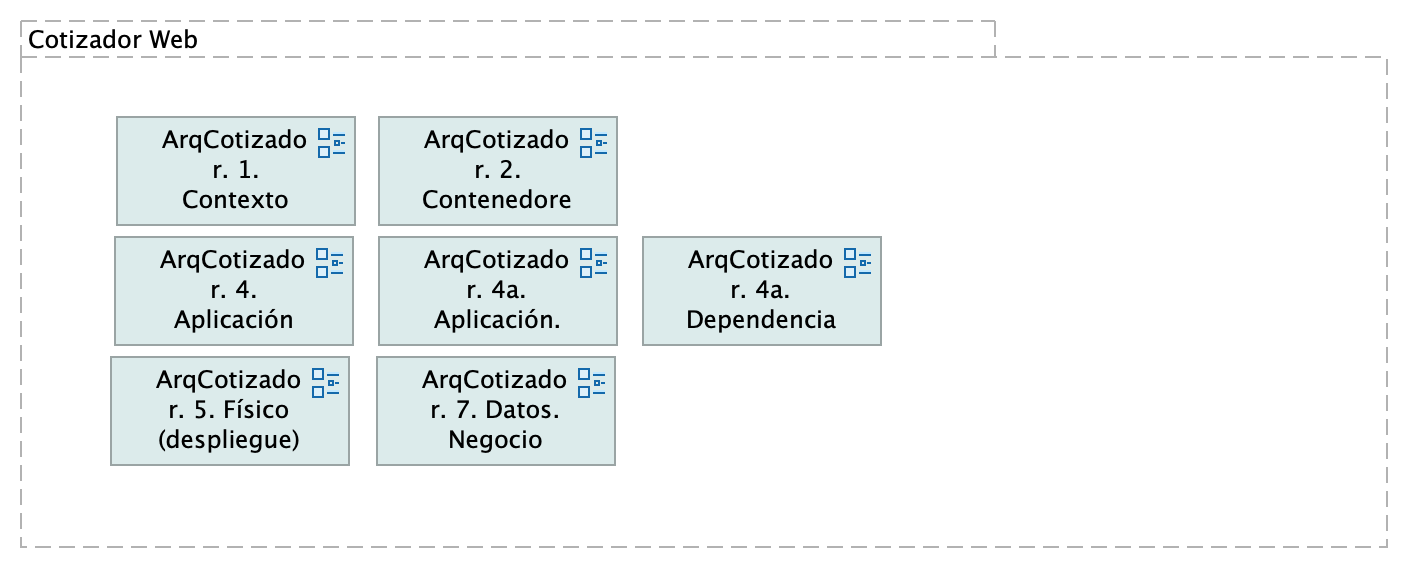
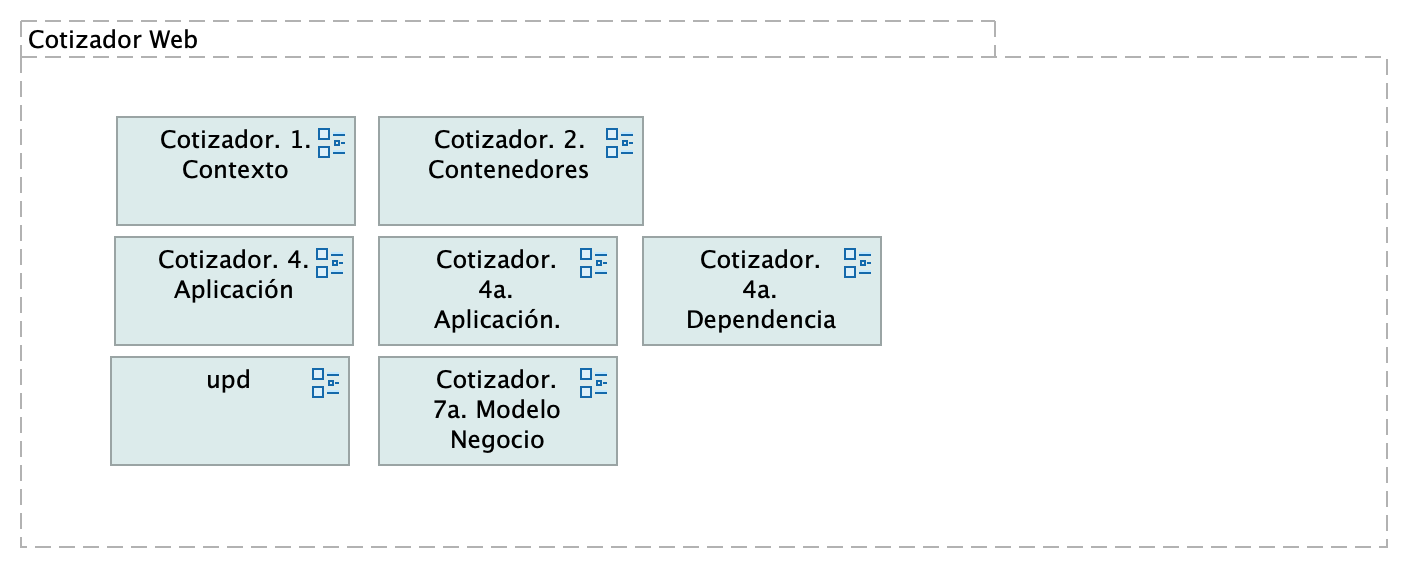
cotizdoc3

diff --git a/content/02n.a2.contenido.md b/content/02n.a2.contenido.md
@@ -5,8 +5,8 @@
 	* [Cotizador. 4. Aplicación](#cotizador.-4.-aplicación)
 	* [Cotizador. 4a. Aplicación. Servicios](#cotizador.-4a.-aplicación.-servicios)
 	* [Cotizador. 4a. Dependencias](#cotizador.-4a.-dependencias)
-	* [Cotizador. 5. Físico (despliegue)](#cotizador.-5.-físico-despliegue)
-	* [Cotizador. 7. Datos. Negocio](#cotizador.-7.-datos.-negocio)
+	* [upd](#upd)
+	* [Cotizador. 7a. Modelo Negocio](#cotizador.-7a.-modelo-negocio)
 
 
 <div style="page-break-before: always;"></div>
@@ -213,8 +213,8 @@ La estructura por módulos actual apunta a la escalabilidad y mantenimiento del 
 
 <br>
 
-## Cotizador. 5. Físico (despliegue)
-![Diagram: Cotizador. 5. Físico (despliegue)](images/Cotizador.5.Físico(despliegue).png){#fig:Cotizador.5.Físico(despliegue) width=}
+## upd
+![Diagram: upd](images/upd.png){#fig:upd width=}
 
 ### Especificaciones de Despliegue Cotizador Web
 Detalles de configuración del proyecto Mi Mutual en el espacio de trabajo local (2022).
@@ -231,6 +231,10 @@ Detalles de configuración del proyecto Mi Mutual en el espacio de trabajo local
 * Node Js. Se debe instalar Node Js para configurar el proyecto front mas adelante, nos debemos asegurar de instalar la versión v14.2.0.
 * Visual Studio Code. Se debe instalar el IDE para realizar modificaciones al proyecto front mas adelante en este caso Visual Studio code. 
 * Angular 14.
+
+<br>
+
+| Nota: los paquetes con el mismo nombre, como pkg: cliente, y pkg: clientes que aparecen arriba en el diagrama corresponden a espacio de nombres distintos. Por ejemplo, para el caso de estos dos paquetes, pkg: cliente pertenece el espacio de nombre (web) Cotizador; en cambio, pkg: clientes pertenece al espacio de nombres (web) admin Páginas.
 
 <br>
 
@@ -268,39 +272,53 @@ Detalles de configuración del proyecto Mi Mutual en el espacio de trabajo local
 
 <br>
 
-## Cotizador. 7. Datos. Negocio
-![Diagram: Cotizador. 7. Datos. Negocio](images/Cotizador.7.Datos.Negocio.png){#fig:Cotizador.7.Datos.Negocio width=}
+## Cotizador. 7a. Modelo Negocio
+![Diagram: Cotizador. 7a. Modelo Negocio](images/Cotizador.7a.ModeloNegocio.png){#fig:Cotizador.7a.ModeloNegocio width=}
 
-### Entidades de Negocio Mi Mutual
-Dominios de datos de negocio. Entidades independiente de la plataforma y de la tecnología.
+### Conceptos Principales
 
-* Configuración (caracterización de productos, plan)
-* Plan (producto pólizas seguros)
-* Canal (medios del tomador/asociado)
-* Parametros globales (catálogos)
-* Portafolio de asociado
-* Asociado
-* Facturación
-* Beneficiario
+1. Configuración
+1. Vinculación
+1. Venta
+1. Cotización
+1. Factura
+1. Cobertura
+1. Configuración
+1. Plan de producto
+
+
+### Orden Operativo
+
+1. Configuración
+1. Vinculación
+1. Venta o Cotización
+1. Factura
 
 
 ### Catálogo de Elementos
 | Name| Type| Description| Properties
 |:--------|:--------|:--------|:--------|
-|**DAT00.Asegurado**|business-object|||
+|**Auditoría Médica**|business-object|Cuando se glosa una solicitus es porque el auditor medico necesita mas informacion y la reasigna.<br>||
+|**DAT00. Cobertura**|business-object|||
+|**DAT00. Glosa**|business-object|Cuando se glosa una solicitus es porque el auditor medico necesita mas informacion y la reasigna.<br>||
 |**DAT00.Asociado**|business-object|||
+|**DAT00.Auxilio Funerario**|business-object|||
 |**DAT00.Beneficiario**|business-object|||
 |**DAT00.Canal (medios del tomador/asociado)**|business-object|||
 |**DAT00.Configuración (caracterización)**|business-object|Caracterización de productos, planes, parámetros<br>||
 |**DAT00.Cotización**|business-object|||
+|**DAT00.Facturación**|business-object|Factura la genera COOMEVA.<br>||
+|**DAT00.Plan - Cobertura**|business-object|||
 |**DAT00.Plan configuración**|business-object|Plan de configuración: producto pólizas seguros.<br>||
+|**DAT00.Plan de Pagos**|business-object|||
+|**DAT00.Planes**|business-object|||
+|**DAT00.Producto**|business-object|||
+|**DAT00.Solicitud**|business-object|Caracterización de productos, planes, parámetros<br>||
+|**DAT00.Venta**|business-object|||
 |**DAT00.Vinculación**|business-object|||
-|**DAT01.PERSONA**|data-object|||
-|**DAT01.PERSONA**|data-object|||
-|**DAT01.PERSONA**|data-object|||
-|**DAT01.PERSONA**|data-object|||
+|**Fondo Solidaridad**|business-object|||
 
 <br>
 
 
-``Generated on: Fri Nov 03 2023 19:49:14 GMT-0500 (COT)``
+``Generated on: Fri Nov 03 2023 20:03:35 GMT-0500 (COT)``
